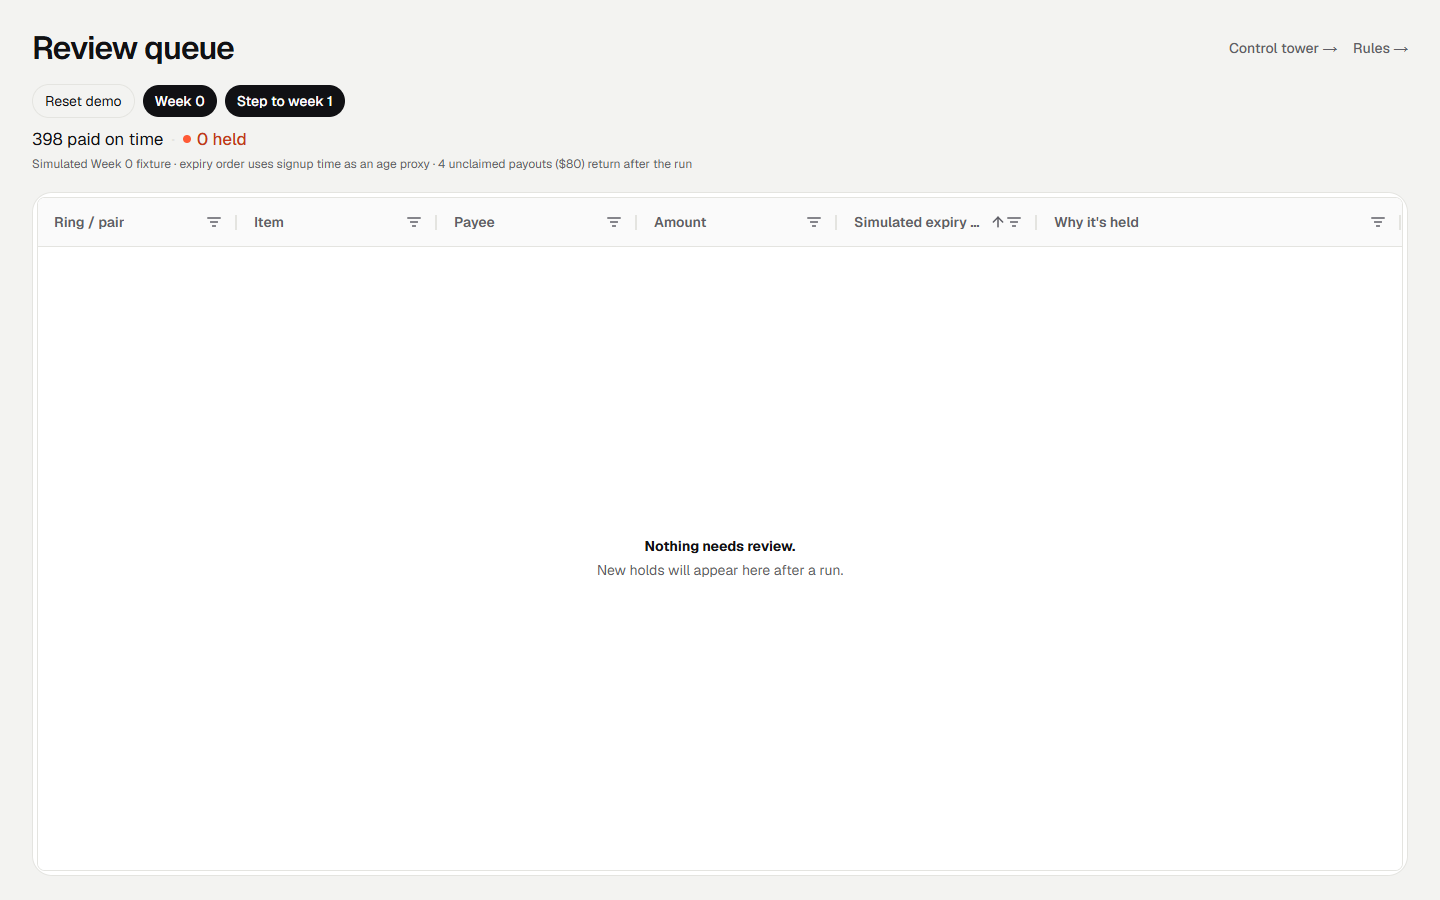
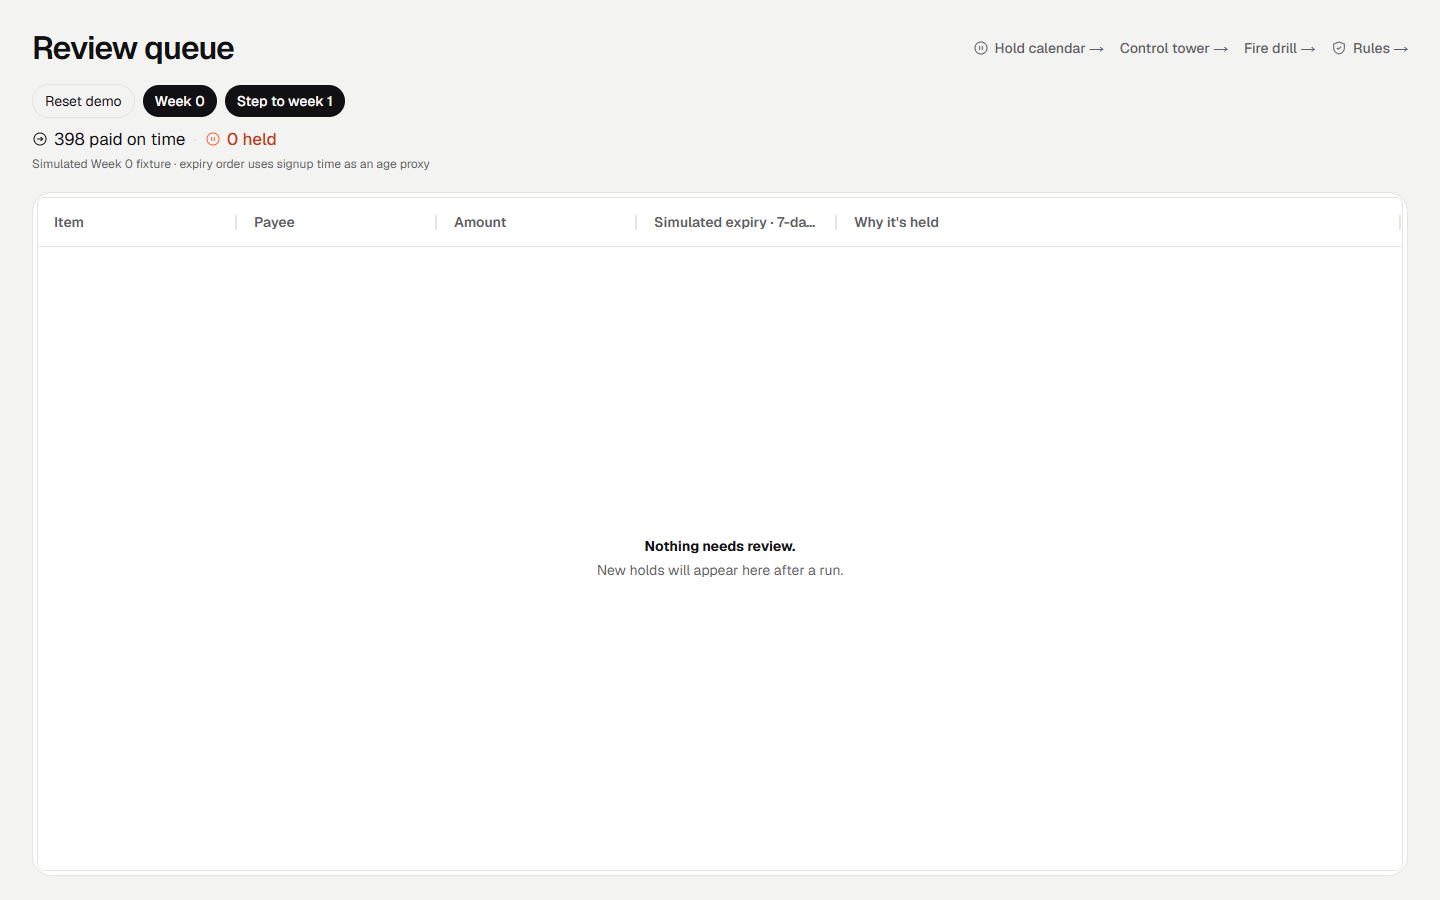
fix(console): ring detail's raw rule preview was leaking both miss lists
review/[ringId]/page.tsx tried to hide the red-team miss list from its raw JSON preview, but
stripped a field named "misses" that no longer exists on its own - the red-team-misses feedback
loop later split it into "misses" (152 ids) and "open_misses" (112 full disguise records), and the
strip only ever matched the first. Left in, the preview rendered all 112 open-case objects inline,
ballooning the ring-R-12 page from ~2900px to over 21000px. Strips both now.

Also finished the screenshot refresh: control-tower.png, rules.png, review-queue-empty.png and
ring-detail.png were still showing the console from before the icon reskin and the red-team score
fix (ring-detail.png still said "Survived 37 of 200" and had no header icons at all) - rules.png
and control-tower.png turned out already current from an earlier pass, confirmed byte-identical
bar one. design.md's voice-guide example updated 37 -> 48 to match everywhere else.

diff --git a/apps/console/app/review/[ringId]/page.tsx b/apps/console/app/review/[ringId]/page.tsx
@@ -170,8 +170,10 @@ export default async function RingDetailPage({ params, searchParams }: { params:
         )}
         <pre className="mt-3 overflow-x-auto rounded-[20px] border border-rf-hairline bg-rf-white p-4 font-mono text-sm">
           {JSON.stringify(
-            // The miss list is for the rules page's own disclosure, not this raw-JSON preview.
-            { ...proposedRule, red_team: proposedRule.red_team && { ...proposedRule.red_team, misses: undefined } },
+            // Both miss lists (152 ids, 112 full cases for R-01) are for the rules page's own
+            // disclosure, not this raw-JSON preview — leaving either in blows this page up to
+            // thousands of pixels tall.
+            { ...proposedRule, red_team: proposedRule.red_team && { ...proposedRule.red_team, misses: undefined, open_misses: undefined } },
             null,
             2,
           )}

diff --git a/design.md b/design.md
@@ -108,7 +108,7 @@ We sound like a calm analyst, not a security alarm. Short sentences, real number
 | "387 members were paid on time. 25 payouts are on hold." | "FRAUD DETECTED! 25 users blocked." |
 | "Ring R-12: 23 accounts that look like one person." | "23 scammers caught." |
 | "Held by mistake? Release it in one click." | "Your account has been flagged for suspicious activity." |
-| "Rule R-01 caught 37 of 200 disguised attacks." | "Our AI is now smarter than ever." |
+| "Rule R-01 caught 48 of 200 disguised attacks." | "Our AI is now smarter than ever." |
 
 **Words we use:** held · ring · real members · payout run · trace · release · recovered · rule · on time
 **Words we avoid:** blocked · banned · scammers · criminals · suspicious users · threat · AI-powered
